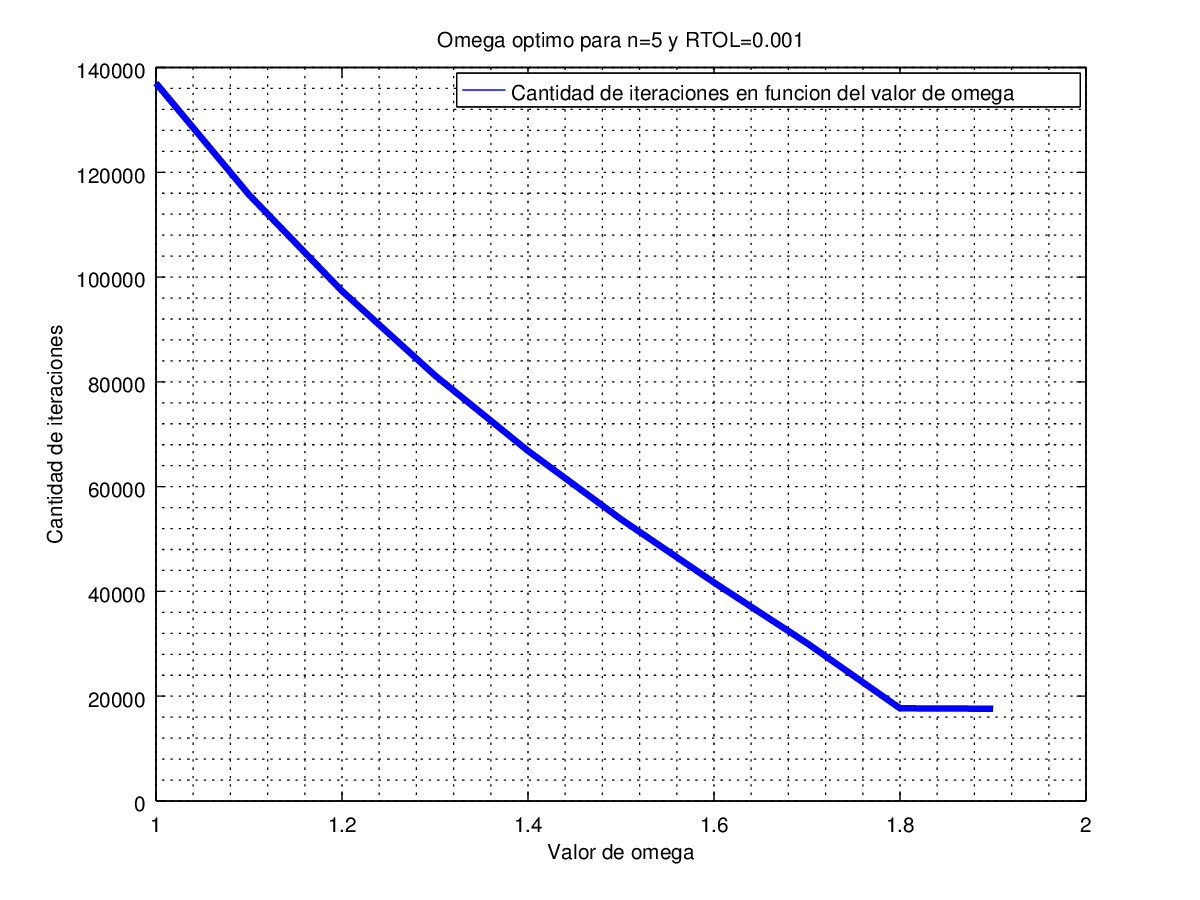
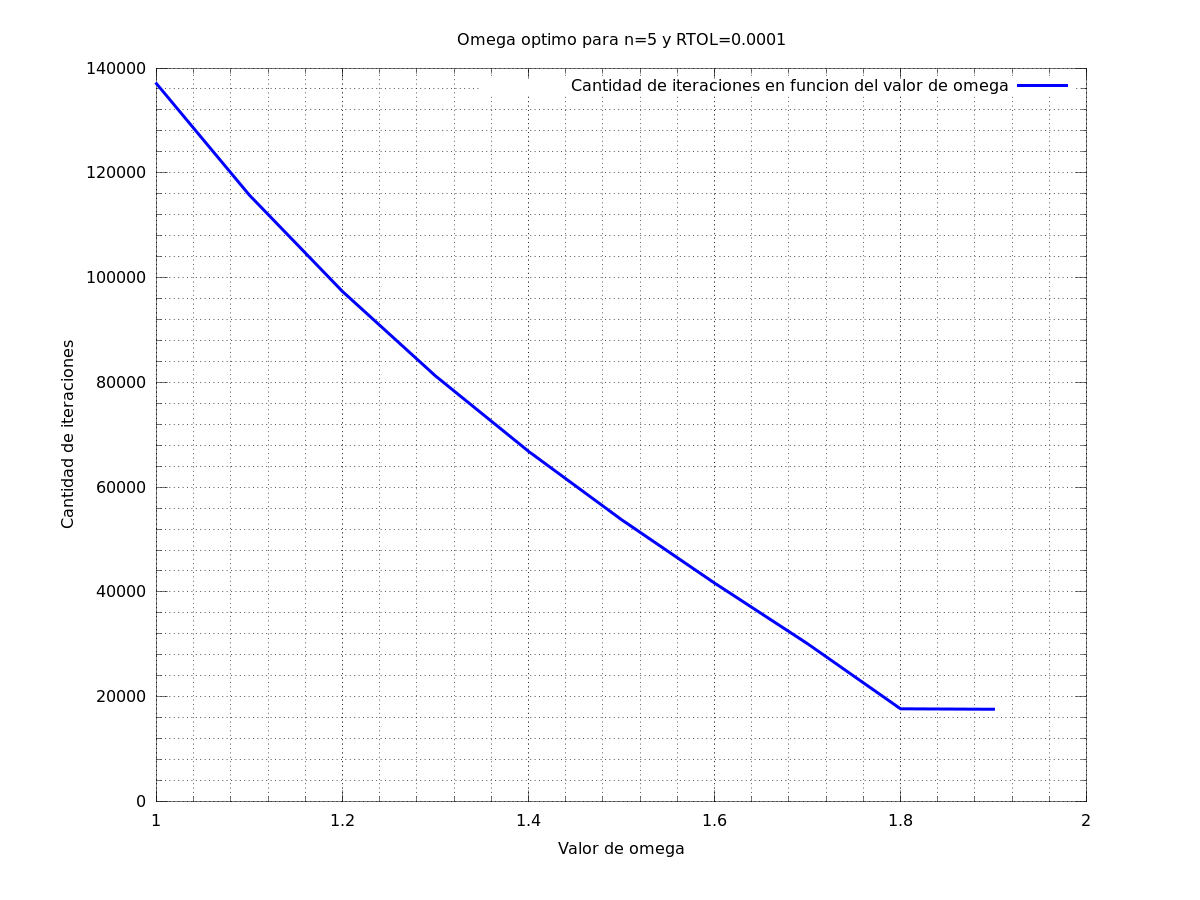
Graficos del punto b corregidos

diff --git a/script.m b/script.m
@@ -4,9 +4,9 @@
 ## b = tabla_sor(5, 0.0001);
 ## b_refinada = refinar_tabla_sor(5, 0.0001, mejor_w(b));
 ## save tablas_b.mat b b_refinada
-## graficar(b, "Omega optimo para n=5 y RTOL=0.001");
+## graficar(b, "Omega optimo para n=5 y RTOL=0.0001");
 ## print b.png;
-## graficar(b_refinada, "Omega optimo para n=5 y RTOL=0.001");
+## graficar(b_refinada, "Omega optimo para n=5 y RTOL=0.0001");
 ## print b_refinada.png;
 ## disp("Punto b realizado")
 
